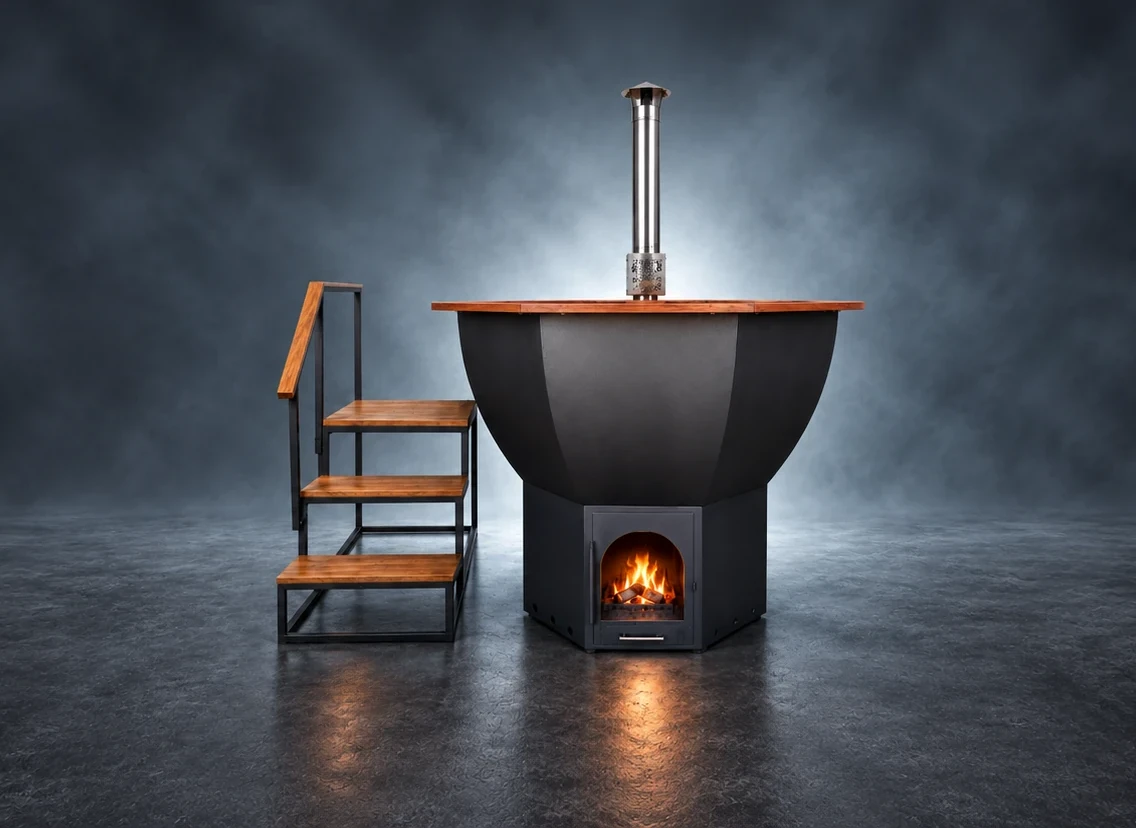
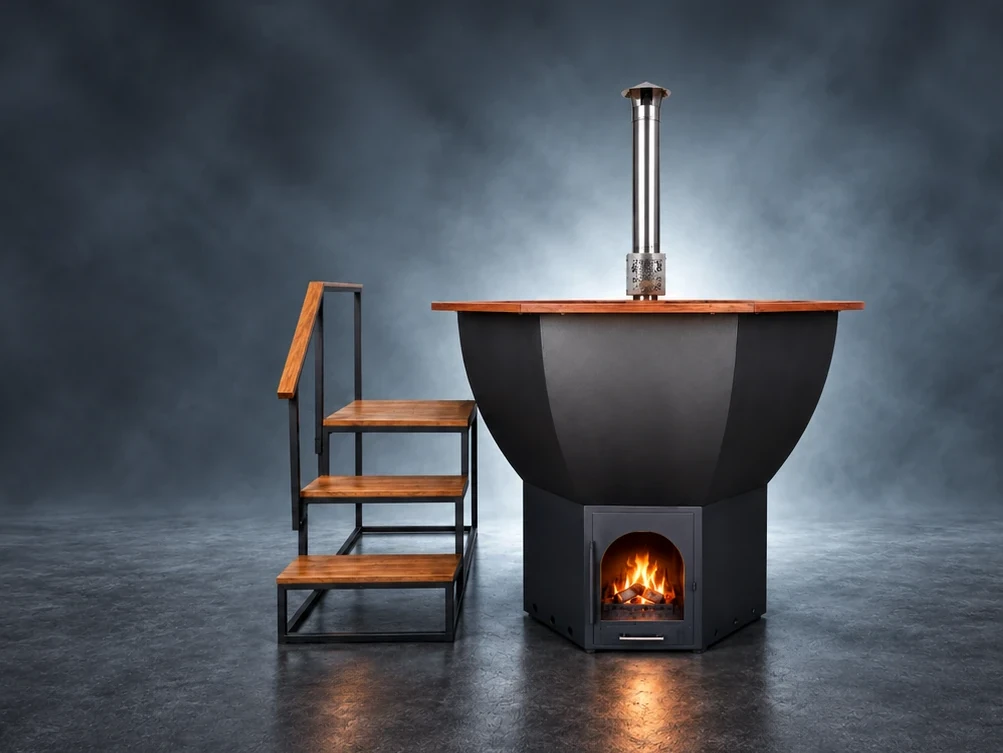
Shift Вальцовавич across and take the floor out of its frame
Its crop loses the empty background on the right, which carries the tub
further across the page since the shot is anchored to the right edge, and
eight per cent off the bottom, which was all floor.

The cap that sets the scale of the whole set is pinned rather than left to
float, so tightening one model's crop no longer enlarges every other
model's picture with it: the other six come out on exactly the widths they
already had.

The shot config moves from positional tuples to named fields, which is
what let the bottom crop be added without renumbering everything.

Claude-Session: https://claude.ai/code/session_01TguMyRvyZftt8ueoPbGrxp

diff --git a/src/data/models.ts b/src/data/models.ts
@@ -196,7 +196,7 @@ export const models: Model[] = [
     stove: 'Разборная, жаропрочная сталь 09Г2С',
     bowlShape: 'rolled',
     theme: 'sand',
-    photos: { hero: 'valtsovavich-hero.webp', heroWidth: 0.85, heroTone: '#36414e' },
+    photos: { hero: 'valtsovavich-hero.webp', heroWidth: 0.751, heroTone: '#3b4855' },
     offers: [
       { cm: 175, price: 135000 },
       { cm: 210, price: 159000 },
@@ -252,7 +252,7 @@ export const models: Model[] = [
     stove: 'Выносная, водяной контур и теплосъёмные трубы',
     bowlShape: 'faceted',
     theme: 'olive',
-    photos: { hero: 'oniks-hero.webp', heroWidth: 0.75, heroTone: '#1a3935' },
+    photos: { hero: 'oniks-hero.webp', heroWidth: 0.751, heroTone: '#1a3935' },
     offers: [
       { cm: 175, price: 188000 },
       { cm: 210, price: 199000 },
@@ -281,7 +281,7 @@ export const models: Model[] = [
     bowlShape: 'faceted',
     theme: 'terracotta',
     badge: 'Решение 4 в 1',
-    photos: { hero: 'oniks-pro-hero.webp', heroWidth: 0.662, heroTone: '#692713' },
+    photos: { hero: 'oniks-pro-hero.webp', heroWidth: 0.663, heroTone: '#692713' },
     offers: [
       { cm: 210, price: 294000 },
       { cm: 235, price: 353000 },
@@ -308,7 +308,7 @@ export const models: Model[] = [
     stove: 'Боковая приварная расширенная, водяной контур и теплосъёмные трубы',
     bowlShape: 'faceted',
     theme: 'copper',
-    photos: { hero: 'grant-hero.webp', heroWidth: 0.782, heroTone: '#60220b' },
+    photos: { hero: 'grant-hero.webp', heroWidth: 0.783, heroTone: '#60220b' },
     offers: [
       { cm: 235, price: 459000 },
       { cm: 250, price: 588000 },

diff --git a/scripts/normalise-hero-photos.py b/scripts/normalise-hero-photos.py
@@ -21,26 +21,35 @@ from PIL import Image
 SRC = 'assets/photos-src'
 DST = 'public/photos'
 
-# name: (crop_left, crop_right, rim_left, rim_right, crop_top, boost) — the
-# first four are fractions of the original width, crop_top of its height.
-# `boost` nudges a model off the formula: matching bowl rims is right for all
-# but Графит, whose flat top rim is far wider than its body, so the formula
-# leaves the whole picture looking smaller than its neighbours. A tall crop is
-# what makes a shot overflow the hero, so a frame with empty sky above the
-# chimney has it taken off here.
+# Per shot: where to crop, where the bowl's rim is, and whether to nudge the
+# result off the formula.
+#
+#   left/right  — crop, as fractions of the original width
+#   rim         — the widest point of the bowl, same units; what gets matched
+#   top/bottom  — crop, as fractions of the original height. Sky above the
+#                 chimney makes a shot overflow the hero; floor below it reads
+#                 as empty space on the page.
+#   boost       — matching bowl rims is right for every model but Графит,
+#                 whose flat top rim is far wider than its body, so the
+#                 formula leaves the whole picture looking small.
+#
+# Cropping the right-hand side also carries the product further right on the
+# page, since the shot is anchored to the right edge.
 SHOTS = {
-    'grafit':           (0.00, 1.00, 0.120, 0.780, 0.00, 1.18),
-    'valtsovavich':     (0.16, 0.84, 0.405, 0.685, 0.12),
-    'cherny-brilliant': (0.22, 0.84, 0.300, 0.720),
-    'nefrit':           (0.20, 0.80, 0.290, 0.710),
-    'oniks':            (0.20, 0.80, 0.240, 0.520),
-    'oniks-pro':        (0.14, 0.84, 0.230, 0.600),
-    'grant':            (0.12, 0.88, 0.190, 0.530),
+    'grafit':           dict(left=0.00, right=1.00, rim=(0.120, 0.780), boost=1.18),
+    'valtsovavich':     dict(left=0.16, right=0.76, rim=(0.405, 0.685), top=0.12, bottom=0.08),
+    'cherny-brilliant': dict(left=0.22, right=0.84, rim=(0.300, 0.720)),
+    'nefrit':           dict(left=0.20, right=0.80, rim=(0.290, 0.710)),
+    'oniks':            dict(left=0.20, right=0.80, rim=(0.240, 0.520)),
+    'oniks-pro':        dict(left=0.14, right=0.84, rim=(0.230, 0.600)),
+    'grant':            dict(left=0.12, right=0.88, rim=(0.190, 0.530)),
 }
 
-# Width of the shot on a large screen, as a share of the viewport, before the
-# per-model correction. The correction is capped so no shot runs past 80%.
-MAX_LG = 0.85
+# Ceiling on how wide a shot may run. It also sets the scale of the whole set:
+# the most loosely framed model takes it, and the rest come down to match. Kept
+# where it is so that tightening one model's crop does not enlarge every other
+# model's picture along with it.
+MAX_LG = 0.783
 
 
 def tone(image: Image.Image) -> str:
@@ -64,16 +73,16 @@ def tone(image: Image.Image) -> str:
 
 
 rims = {}
-for name, geometry in SHOTS.items():
-    cl, cr, rl, rr = geometry[:4]
-    ct = geometry[4] if len(geometry) > 4 else 0.0
-    boost = geometry[5] if len(geometry) > 5 else 1.0
+for name, shot in SHOTS.items():
+    cl, cr = shot['left'], shot['right']
+    rl, rr = shot['rim']
+    ct, cb = shot.get('top', 0.0), shot.get('bottom', 0.0)
     original = Image.open(f'{SRC}/{name}-hero.webp').convert('RGB')
     w, h = original.size
-    cropped = original.crop((round(w * cl), round(h * ct), round(w * cr), h))
+    cropped = original.crop((round(w * cl), round(h * ct), round(w * cr), round(h * (1 - cb))))
     cropped.save(f'{DST}/{name}-hero.webp', 'WEBP', quality=90, method=6)
     rims[name] = {'rim': (rr - rl) / (cr - cl), 'tone': tone(cropped),
-                  'size': cropped.size, 'boost': boost}
+                  'size': cropped.size, 'boost': shot.get('boost', 1.0)}
 
 # The most loosely framed shot sets the ceiling; the rest scale down to match.
 target = MAX_LG * min(info['rim'] for info in rims.values())
